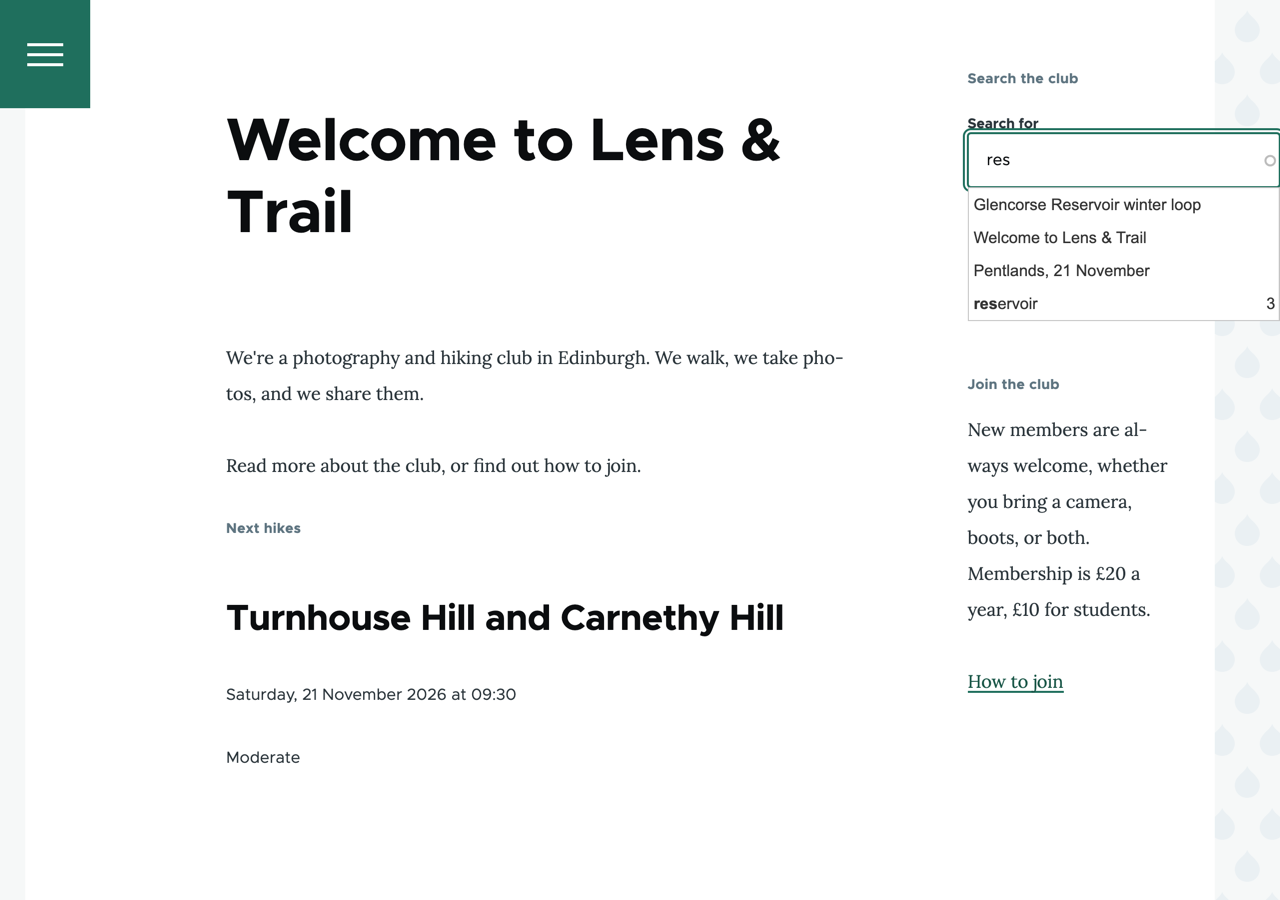
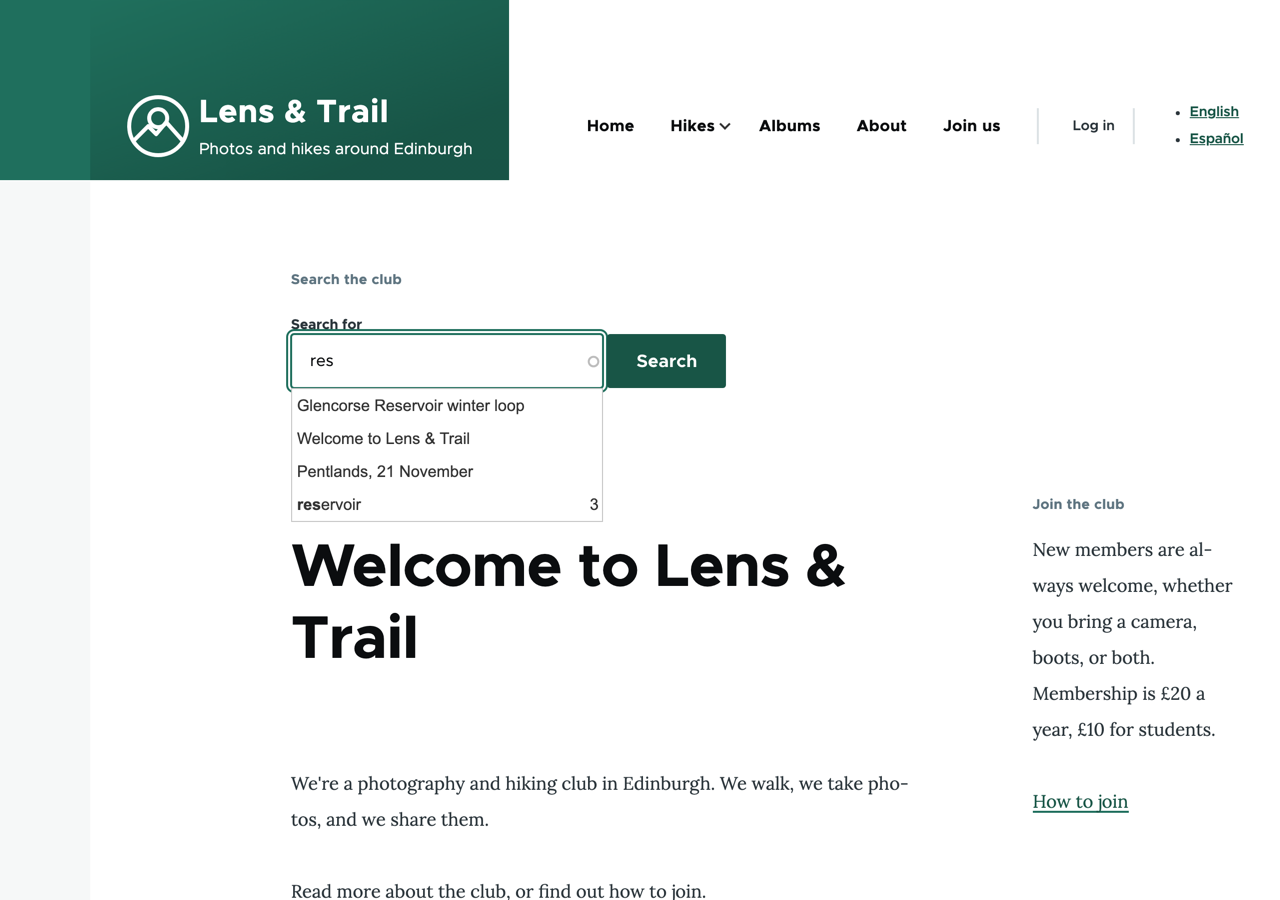
Search box under the header, and a tidier hike teaser on Drupal CMS
The search box moves from Olivero's Sidebar to Highlighted: in the sidebar the
field (size 30) stuck out past the page, and nothing in Views, Search API or
Olivero makes it narrower. Chapter 23 gets a box on tidying Hike's teaser for
Mercury (linked title, hidden labels, no Read more link).

diff --git a/tools/screenshots.py b/tools/screenshots.py
@@ -5111,12 +5111,10 @@ def search22_core_steps(page: Page, site: dict, snap) -> None:
     search22_tall(page, "22-search-index-display")
 
     search22_visitor(page, site, "/es/buscar?keys=embalse", "22-es-buscar")
-    search22_visitor(page, site, "/", "22-sidebar-block")
+    search22_visitor(page, site, "/", "22-search-box", full_page=False)
 
     def type_res(visit: Page) -> None:
         box = visit.locator("input[name='keys']").first
-        box.scroll_into_view_if_needed()
-        visit.evaluate("window.scrollBy(0, 200)")
         box.press_sequentially("res", delay=200)
         visit.wait_for_selector(".ui-autocomplete", state="visible", timeout=20000)
         visit.wait_for_timeout(1500)
@@ -5217,7 +5215,7 @@ def meaning23_steps(page: Page, site: dict, snap) -> None:
 
 
 SEQUENCES = [
-    ("core", search22_core_steps, 1280, ["22-extend", "22-add-server", "22-add-index", "22-add-fields", "22-fields", "22-processors", "22-index-view", "22-add-view", "22-fulltext-filter", "22-search-results", "22-search-index-display", "22-es-buscar", "22-sidebar-block", "22-autocomplete"]),
+    ("core", search22_core_steps, 1280, ["22-extend", "22-add-server", "22-add-index", "22-add-fields", "22-fields", "22-processors", "22-index-view", "22-add-view", "22-fulltext-filter", "22-search-results", "22-search-index-display", "22-es-buscar", "22-search-box", "22-autocomplete"]),
     ("cms", search22_cms_steps, 1440, ["22-cms-recommended", "22-cms-facet-settings", "22-cms-facets"]),
     ("cms", meaning23_steps, 1440, ["23-ai-server", "23-ai-index", "23-find-a-hike", "23-agent", "23-agent-tool", "23-assistant", "23-chatbot"]),
     ("core", config21_steps, 1280, ["21-sync-missing", "21-single-export", "21-full-export", "21-full-import", "21-synchronize", "21-differences", "21-differences-deleted", "21-imported", "21-live-fields", "21-cron", "21-performance"]),

diff --git a/PROJECT-LOG.md b/PROJECT-LOG.md
@@ -9,7 +9,7 @@ Last updated: 2026-11-06.
 
 Read this first when picking the work up in a new session.
 
-- **Last updated 2026-11-14.** Up to PR #34 is merged into `main`. **Open branch: `documentation/chapter-22-search`** (the new Search chapter, see Decisions from 2026-11-13). The sites are built and tested, and the chapter (`manuscript/22-search.md`), *Search by Meaning* (`22-searching-by-meaning.md`, split off after the author's first look), the patching appendix (`appendix-c-patching-a-contributed-module.md`) and Exercise 5's answer are drafted (2026-11-14), waiting for the author's review. Core site: snapshot `ch22-core-done` (Search API, the search view and search box, autocomplete). Drupal CMS site: snapshot `ch22-cms-ai-done` (the Search recipe with facets, *Find a hike* on Pinecone, the Hike guide in the admin chatbot). Screenshots taken (2026-11-14: 17 for Chapter 22, 7 for 23, from the sites as they are now; `tools/screenshots.py 22` and `23`). Both chapters reviewed by the author (2026-11-14). Still waiting for review: the patching appendix and the Exercise 5 answer. Undecided: Olivero's overflowing sidebar search box and Mercury's Find a hike teasers (Open items).
+- **Last updated 2026-11-14.** Up to PR #34 is merged into `main`. **Open branch: `documentation/chapter-22-search`** (the new Search chapter, see Decisions from 2026-11-13). The sites are built and tested, and the chapter (`manuscript/22-search.md`), *Search by Meaning* (`22-searching-by-meaning.md`, split off after the author's first look), the patching appendix (`appendix-c-patching-a-contributed-module.md`) and Exercise 5's answer are drafted (2026-11-14), waiting for the author's review. Core site: snapshot `ch22-core-done` (Search API, the search view and search box, autocomplete). Drupal CMS site: snapshot `ch22-cms-ai-done` (the Search recipe with facets, *Find a hike* on Pinecone, the Hike guide in the admin chatbot). Screenshots taken (2026-11-14: 17 for Chapter 22, 7 for 23, from the sites as they are now; `tools/screenshots.py 22` and `23`). Both chapters reviewed by the author (2026-11-14). Still waiting for review: the patching appendix and the Exercise 5 answer.
 - **The whole book is drafted and merged:** the Preface, Chapters 1 to 22, and Appendices A to C. Reviewed by the author: all of it, except Chapter 18 (merged as PR #26, the review isn't recorded) and Chapter 17 (first pass only). The I-to-we refactor is done (PR #31); the `sites/` export for *Theming Drupal* is in (PR #32).
 - **Waiting for the author:**
   - Post the core issue about purged field schema data (draft and patch in `~/websites/open-university/drupal-core-dev/`; core takes a merge request from the issue fork, not a patch file). Then replace `NNNNNNN` in Chapter 22 (two places), and delete `drupal-core-dev` (`ddev delete -O drupal-core-dev`, then the folder).
@@ -141,6 +141,7 @@ Made on 2026-11-04, at the start of the rewrite.
 - **2026-11-07**: Drafted Chapter 22, *Where Next?*, with the author's answers: light hands-on (looking at a queue, an account, localize.drupal.org, all done by the reader), the core field-schema bug as the worked example of an issue, all four topics (contributing without code, events, learning and jobs, Lens & Trail's next steps), and a short Drupal Association section. The d.o Drupalism box from the backlog is in it. The author asked to keep Webform, Registration, Group, Simplenews and Commerce in the next steps although they have no Drupal 12 release yet (expected very soon). drupal.org answers Playwright with a CAPTCHA, so its screenshots (`22-issue.png`, `22-queue.png`) are `%%` placeholders for the author.
 - **2026-11-07**: The author's own story in Chapter 2 ("Hilmar's story: how I came to Drupal": Drupal 7.11 in 2012, DrupalCon Prague 2013, the DrupalCon Europe Organizing Board since 2020, Drupal Trivia's scoring judge since 2018, co-founder of the Drupal Open University Initiative), as a signed box that keeps "I". Chapter 22 now names the Initiative as behind Drupal in a Day and this book; Chapter 3's placeholder now asks only about the move from 7 to 8. On the Chapter 22 branch, with the author's OK.
 - **2026-11-07**: "I" became "we" in the Preface, Chapters 1, 3, 4, 8 to 12 and 17, and Appendices A and B (the author's decision of 2026-11-06). Kept: Hilmar's signed story in Chapter 2, the reader's own questions ("Which one should I use?", the GPL table's "Can I…"), quotes (Canvas AI's "I made up…", "It works on my machine!"), and field names (About me). One fact about one person names them, as the author chose: Chapter 4's time zone, "When Hilmar installed it, it said Reykjavik: Hilmar lives in Iceland." The `write-chapter` skill now lists these exceptions.
+- **2026-11-14**: After the review, the author's two decisions. **The search box moves from Olivero's Sidebar to Highlighted**: in the sidebar it stuck out past the page (the exposed field's `size="30"` makes it 312 px wide in a 211 px column; nothing in Views, Search API or Olivero sets a narrower size, and Olivero has no custom CSS field; no matching core issue). Highlighted, the band under the header, fits on desktop and phone; the chapter says why not the header and why not the sidebar. Figure 22.13 is now `22-search-box.png`. **Hike's teaser on Drupal CMS is tidied** (Chapter 23 has a box with the steps): Mercury stacks every label above its value and showed "Read more" as a bullet. Snapshots `ch22-core-done` and `ch22-cms-ai-done` replaced.
 - **2026-11-14**: The author reviewed Chapters 22 (*Search*) and 23 (*Search by Meaning*), with their screenshots.
 - **2026-11-14**: Screenshots for Chapters 22 and 23 (three new sequences in `tools/screenshots.py`; a helper, `search22_tall`, makes the window as tall as the page, so the fixed admin sidebar doesn't land mid-image). Taking them corrected the text: the two grey index fields are labeled **Boolean** and **Entity reference**; Highlight doesn't mark stemmed words (`reservoirs` finds the hike but gives no excerpt, so the figure searches `reservoir`); a facet's settings (amount of results, entity ID to label, list item label) are behind the **Settings** link next to it in Filter criteria, which appears only once the view is saved; the pentland facets offer Moderate and Hard, not Easy. Chapter 23's Hike guide section is rewritten: the AI Assistant form makes its own agent (same machine name) and its RAG settings force the tool's index, amount and min_score, so readers build the assistant, then look at the agent. Its **RAG threshold** default, 0.5, filters out every hike (good matches score 0.30 to 0.44 with text-embedding-3-small): the chapter sets 0.2, and the site's assistant was saved through its form with 0.2 to test it. The chatbot sequence clears the admin's chat history first (private tempstore, per user, an hour).
 - **2026-11-14**: After the author's first look, the AI part of the Search chapter became its own chapter, *Search by Meaning* (`22-searching-by-meaning.md`), with its own opening, summary and exercises; the Hike guide is a full section now, not a box. Tested for it: an exposed Difficulty filter works on the AI index (Pinecone filters on attributes).
@@ -175,7 +176,7 @@ What each chapter adds to the Lens & Trail site. Later chapters and exercises mu
 | 19 | Core: nothing (the AI module doesn't support Drupal 12). Drupal CMS: the AI Assistant recipe (`drupal_cms_ai`) with amazee.ai; AI, AI Assistant API, AI Chatbot, AI Agents, AI Dashboard, AI Image Alt Text, Canvas AI, Key, Klaro and the three provider modules; Tags filled by the assistant (the AI's terms; the chapter asks readers to clean them up, so their exact names aren't fixed); `field_tags` on the Image media type (unlimited, Tags, auto-create on as the AI made it; the chapter suggests switching it off); the Portobello photo with AI alt text; the Canvas page *First hike with Lens & Trail* (`/first-hike`) published from the fact prompt, a draft from the short prompt (readers delete it); Canvas Translate AI, with Spanish suggestions for the beginners' page (draft, not published). |
 | 20 | Nothing kept: every change is undone at the end (the screenshot sequences restore `ch20-start`). Readers are asked to set the update emails (daily, Only security updates) and may take backups into `backups/` (to add to `.gitignore`). The Drupal 11 site (`lens-and-trail-d11`) is a separate site, not the club's. |
 | 21 | The sync folder `../config/sync` (`$settings['config_sync_directory']` in `settings.php`), with the configuration exported to it (`drush config:export`). Hike field **Elevation gain** (`field_elevation_gain`, Number (integer), Minimum 0, Suffix " m"), between Distance and Hike leader, on the default form display and the Default, Teaser and Card displays; no values on any hike. The live copy (`lens-and-trail-live`) has the same configuration, imported from a full archive; Morag's *Square* image style, made on the live copy, was deleted by the import. Exercises not on the test site: Single import of *Square*, the content-or-configuration list. |
-| 22 (Search) | Core: Search API (+ Database Search, Search API Autocomplete; three patches and the lenient plugin, see Decisions), server **Club database** (starting-with matching, bigram), index **Club content** (all content, both languages; Rendered HTML output with Hike's new **Search index** view mode (labels hidden), Title boost 5, Content type, Area, Difficulty, Date; eight processors), view **Search** (`/search`, Spanish alias `/es/buscar`, Input required, Type/Area/Difficulty, interface language; block **Search box** in Olivero's Sidebar as *Search the club*, hidden on `/search`), autocomplete for visitors. Snapshot `ch22-core-done`. Drupal CMS: the Search recipe, Facets + Facets Exposed Filters + Better Exposed Filters on its **Search** view (page at `/search`, search box in Mercury's Navbar), AI Search with Pinecone (**AI search** server, **Hikes by meaning** index with the chunked tracker), view **Find a hike** (`/find-a-hike`, `/buscar-excursion`), menu link and Spanish redirect, the **Hike guide** agent and assistant in the admin chatbot. Snapshot `ch22-cms-done`. |
+| 22 (Search) | Core: Search API (+ Database Search, Search API Autocomplete; three patches and the lenient plugin, see Decisions), server **Club database** (starting-with matching, bigram), index **Club content** (all content, both languages; Rendered HTML output with Hike's new **Search index** view mode (labels hidden), Title boost 5, Content type, Area, Difficulty, Date; eight processors), view **Search** (`/search`, Spanish alias `/es/buscar`, Input required, Type/Area/Difficulty, interface language; block **Search box** at the top of Olivero's **Highlighted** region as *Search the club*, hidden on `/search` (moved from the Sidebar, where the box overflowed)), autocomplete for visitors. Snapshot `ch22-core-done`. Drupal CMS: the Search recipe, Facets + Facets Exposed Filters + Better Exposed Filters on its **Search** view (page at `/search`, search box in Mercury's Navbar), AI Search with Pinecone (**AI search** server, **Hikes by meaning** index with the chunked tracker), view **Find a hike** (`/find-a-hike`, `/buscar-excursion`), menu link and Spanish redirect, the **Hike guide** assistant (and the agent its form made; RAG threshold 0.2) in the admin chatbot, and Hike's **Teaser** display tidied for Mercury (title linked, labels of Date, Distance and Difficulty hidden, Links disabled). Snapshot `ch22-cms-done`. |
 
 ## Sources
 
@@ -195,8 +196,6 @@ What each chapter adds to the Lens & Trail site. Later chapters and exercises mu
 
 ## Open items
 
-- **Olivero's sidebar search box overflows** (found 2026-11-14, Chapter 22, figure 22.13): the exposed text field (size 30, 312 px) is wider than the 211 px sidebar, because Olivero lays out a view as a grid. No matching core issue found (closest: #3210902, #3221247, #3135137). The author decides: leave, report it to core, or work around it.
-- **Find a hike's teasers on Mercury** (figure 23.3) show "Read more" as a bullet and the field labels stacked: Mercury's teaser for Hike isn't styled. Fine for the figure, or tidy the Hike teaser display on the Drupal CMS site.
 
 - `archive/developer-qa/`: the author chose the module book's backlog (2026-11-04). The entry is in
   `websites/ru/book-rewrite/PROJECT-LOG.md` ("Topics to place"), uncommitted there. Delete the archive here once

diff --git a/manuscript/22-search.md b/manuscript/22-search.md
@@ -275,14 +275,14 @@ A search page is good; a search box on every page is better. A view can have mor
 
 The block shows no results of its own, only the box: the **Input required** exposed form style, which the block shares with the page, shows results only after a search, and a search from the box goes to the page.
 
-Now place it, as in Chapter 14: **Structure** > **Block layout**, **Place block** in Olivero's **Sidebar** region, and choose **Search box** (from the Search view). Title it `Search the club`. Under **Pages**, enter `/search` and choose **Hide for the listed pages**: on the search page itself, a second box would be one too many.
+Now place it, as in Chapter 14: **Structure** > **Block layout**, **Place block** in Olivero's **Highlighted** region, and choose **Search box** (from the Search view). Title it `Search the club`. Under **Pages**, enter `/search` and choose **Hide for the listed pages**: on the search page itself, a second box would be one too many. Save, and on **Block layout**, drag **Search the club** to the top of the region, above **Status messages**, and select **Save blocks**.
 
-![The front page, with the Search the club block at the top of the sidebar, above Join the club](images/22-sidebar-block.png)
-*Figure 22.13: The search box in the sidebar*
+![The front page, with the Search the club box under the header, above the page title](images/22-search-box.png)
+*Figure 22.13: The search box under the header*
 
-%% Author: in Olivero's sidebar the search box is wider than the sidebar (312 px in a 211 px column at 1280 wide): Olivero lays out a view as a grid, and the text field's size of 30 sets the grid's minimum width. Seen 2026-11-14; no matching core issue found. Decide: leave, report, or work around. %%
+Highlighted is the band under the header, where Chapter 14 put the status messages and the tabs. It's on every page, in the same place, and it's as wide as the content, so the box fits, on a phone too.
 
-Why the sidebar, and not the header, where most sites have their search box? Because of how Olivero's header works: when its main menu doesn't fit, Olivero folds it into a **Menu** button, and a search box in the header region makes it not fit much sooner. The sidebar keeps the header as it was. (*Theming Drupal* puts the box in the header, with a theme made for it.)
+Why not the header, where most sites have their search box? Because of how Olivero's header works: when its main menu doesn't fit, Olivero folds it into a **Menu** button, and a search box in the header region makes it not fit much sooner. And why not the sidebar, the usual place for an extra block? We tried it, and the box stuck out past the right edge of the page. Olivero shows a search box at its natural width, about 30 characters, which is wider than its sidebar on a computer screen, and nothing in Views or Search API makes a search box narrower. A theme could, with a line of CSS, but Olivero doesn't let you add your own. Highlighted needs no CSS. (*Theming Drupal* puts the box in the header, with a theme made for it.)
 
 > **Try it:** search for `pentland` from the box on the front page. You land on `/search?keys=pentland`, with the results, and the Type, Area and Difficulty filters to narrow them down.
 
@@ -310,7 +310,7 @@ Visitors need permission to use it: under **People** > **Permissions**, give **A
 
 Type `res` in the search box:
 
-![The sidebar search box with res typed, and suggestions below it: three pages, Glencorse Reservoir winter loop, Welcome to Lens & Trail and Pentlands, 21 November, and the word reservoir with the count 3](images/22-autocomplete.png)
+![The search box with res typed, and suggestions below it: three pages, Glencorse Reservoir winter loop, Welcome to Lens & Trail and Pentlands, 21 November, and the word reservoir with the count 3](images/22-autocomplete.png)
 *Figure 22.14: Suggestions while typing*
 
 ## Old hikes, and why they stay

diff --git a/book/22-search.md b/book/22-search.md
@@ -267,12 +267,14 @@ A search page is good; a search box on every page is better. A view can have mor
 
 The block shows no results of its own, only the box: the **Input required** exposed form style, which the block shares with the page, shows results only after a search, and a search from the box goes to the page.
 
-Now place it, as in Chapter 14: **Structure** > **Block layout**, **Place block** in Olivero's **Sidebar** region, and choose **Search box** (from the Search view). Title it `Search the club`. Under **Pages**, enter `/search` and choose **Hide for the listed pages**: on the search page itself, a second box would be one too many.
+Now place it, as in Chapter 14: **Structure** > **Block layout**, **Place block** in Olivero's **Highlighted** region, and choose **Search box** (from the Search view). Title it `Search the club`. Under **Pages**, enter `/search` and choose **Hide for the listed pages**: on the search page itself, a second box would be one too many. Save, and on **Block layout**, drag **Search the club** to the top of the region, above **Status messages**, and select **Save blocks**.
 
-![The front page, with the Search the club block at the top of the sidebar, above Join the club](images/22-sidebar-block.png)
-*Figure 22.13: The search box in the sidebar*
+![The front page, with the Search the club box under the header, above the page title](images/22-search-box.png)
+*Figure 22.13: The search box under the header*
 
-Why the sidebar, and not the header, where most sites have their search box? Because of how Olivero's header works: when its main menu doesn't fit, Olivero folds it into a **Menu** button, and a search box in the header region makes it not fit much sooner. The sidebar keeps the header as it was. (*Theming Drupal* puts the box in the header, with a theme made for it.)
+Highlighted is the band under the header, where Chapter 14 put the status messages and the tabs. It's on every page, in the same place, and it's as wide as the content, so the box fits, on a phone too.
+
+Why not the header, where most sites have their search box? Because of how Olivero's header works: when its main menu doesn't fit, Olivero folds it into a **Menu** button, and a search box in the header region makes it not fit much sooner. And why not the sidebar, the usual place for an extra block? We tried it, and the box stuck out past the right edge of the page. Olivero shows a search box at its natural width, about 30 characters, which is wider than its sidebar on a computer screen, and nothing in Views or Search API makes a search box narrower. A theme could, with a line of CSS, but Olivero doesn't let you add your own. Highlighted needs no CSS. (*Theming Drupal* puts the box in the header, with a theme made for it.)
 
 > **Try it:** search for `pentland` from the box on the front page. You land on `/search?keys=pentland`, with the results, and the Type, Area and Difficulty filters to narrow them down.
 
@@ -298,7 +300,7 @@ Visitors need permission to use it: under **People** > **Permissions**, give **A
 
 Type `res` in the search box:
 
-![The sidebar search box with res typed, and suggestions below it: three pages, Glencorse Reservoir winter loop, Welcome to Lens & Trail and Pentlands, 21 November, and the word reservoir with the count 3](images/22-autocomplete.png)
+![The search box with res typed, and suggestions below it: three pages, Glencorse Reservoir winter loop, Welcome to Lens & Trail and Pentlands, 21 November, and the word reservoir with the count 3](images/22-autocomplete.png)
 *Figure 22.14: Suggestions while typing*
 
 ## Old hikes, and why they stay

diff --git a/manuscript/22-searching-by-meaning.md b/manuscript/22-searching-by-meaning.md
@@ -101,6 +101,8 @@ Now a view, as for Chapter 22's search page: **Add view**, **Show** **Index Hike
 3. Add **Search: Relevance**, descending.
 4. Add **Index Hikes by meaning: Language**, *not* exposed, set to `en`.
 
+> **Tidy the teaser for Mercury.** The first time we tried it, the results looked rough: each label stacked above its value, and a "Read more" link in a bullet list. Mercury doesn't style the *Teaser* view mode, and it shows every label above its value, even one set to **Inline**. The fix is in the display, not the theme. Go to **Structure** > **Content types** > **Hike** > **Manage display** > **Teaser** (Chapter 8): for **Title**, open the settings and check **Link to the Content**; set the **Label** of **Date**, **Distance** and **Difficulty** to **- Hidden -** ("11.5 km" and "Moderate" make sense without one); and move **Links** to **Disabled**, since the title is the link now. Save. The **Hikes** page uses the same teaser, so it's tidier too.
+
 ### One page per language
 
 Why a fixed `en`, and not **Item language** with the interface language, as on Chapter 22's search page? Because the AI Search backend ignores **Item language**: it passes filters to the vector database only when they're on the index's own fields, such as **Language**, which we added as a filterable attribute. So this display shows English hikes, and we make a second one for Spanish: **Add** > **Page**, with the path `buscar-excursion`, and for this page only (**This page (override)**), the **Language** filter set to `es`. Save.

diff --git a/book/22-searching-by-meaning.md b/book/22-searching-by-meaning.md
@@ -95,6 +95,8 @@ Now a view, as for Chapter 22's search page: **Add view**, **Show** **Index Hike
 3. Add **Search: Relevance**, descending.
 4. Add **Index Hikes by meaning: Language**, *not* exposed, set to `en`.
 
+> **Tidy the teaser for Mercury.** The first time we tried it, the results looked rough: each label stacked above its value, and a "Read more" link in a bullet list. Mercury doesn't style the *Teaser* view mode, and it shows every label above its value, even one set to **Inline**. The fix is in the display, not the theme. Go to **Structure** > **Content types** > **Hike** > **Manage display** > **Teaser** (Chapter 8): for **Title**, open the settings and check **Link to the Content**; set the **Label** of **Date**, **Distance** and **Difficulty** to **- Hidden -** ("11.5 km" and "Moderate" make sense without one); and move **Links** to **Disabled**, since the title is the link now. Save. The **Hikes** page uses the same teaser, so it's tidier too.
+
 ### One page per language
 
 Why a fixed `en`, and not **Item language** with the interface language, as on Chapter 22's search page? Because the AI Search backend ignores **Item language**: it passes filters to the vector database only when they're on the index's own fields, such as **Language**, which we added as a filterable attribute. So this display shows English hikes, and we make a second one for Spanish: **Add** > **Page**, with the path `buscar-excursion`, and for this page only (**This page (override)**), the **Language** filter set to `es`. Save.
